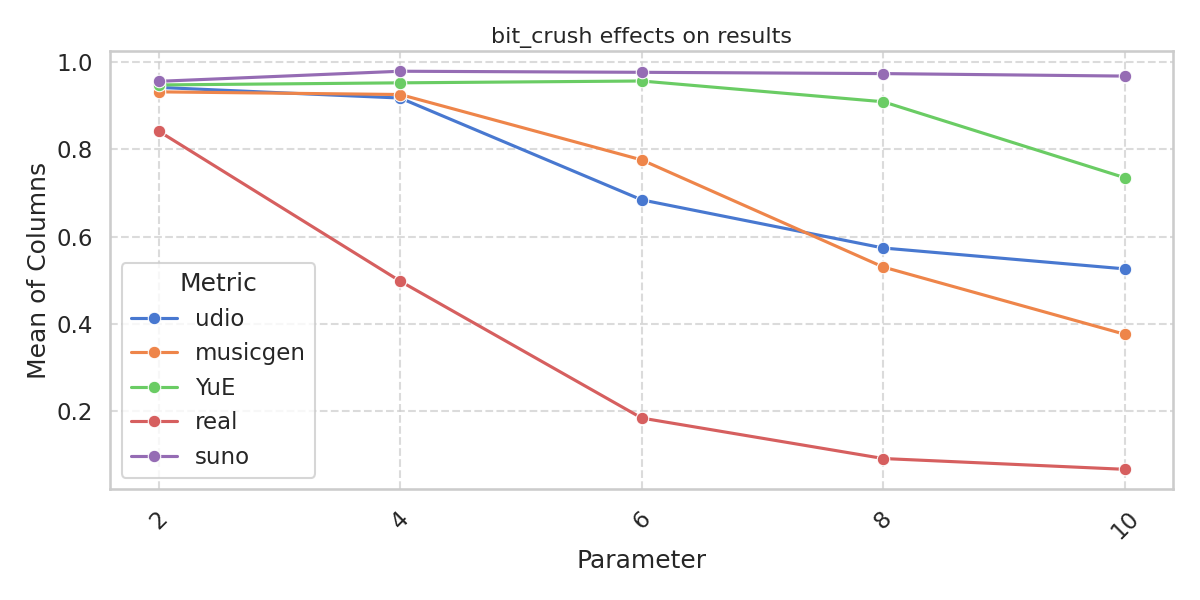
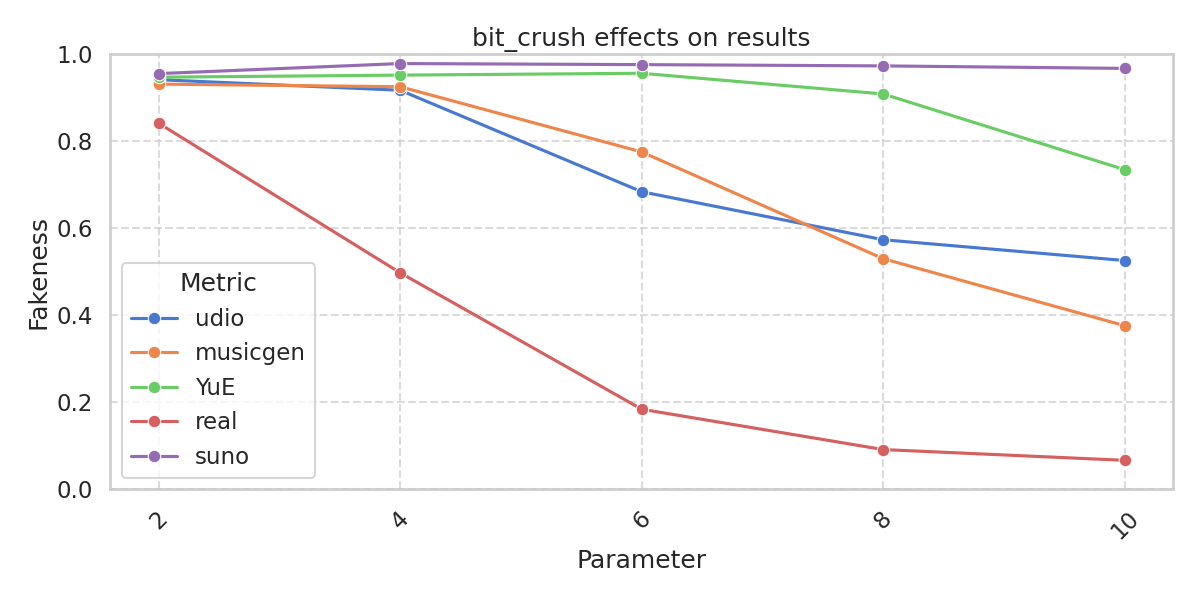
gfix: rename some files to be parsed by lineplot, and add the lineplot script for presentation

diff --git a/reports/make_lineplots.py b/reports/make_lineplots.py
@@ -1,0 +1,61 @@
+import os
+import re
+import pandas as pd
+import matplotlib.pyplot as plt
+import seaborn as sns
+
+a
+sns.set_theme(style='whitegrid', context='talk', palette='muted')
+csv_folder = 'results'
+
+all_files = [f for f in os.listdir(csv_folder) if f.endswith('.csv')]
+
+# remove not plottable
+ignore_keywords = ['EQ', 'no_augment', 'compress_ogg']
+files = [f for f in all_files if not any(kw in f for kw in ignore_keywords)]
+
+# Group files by prefix
+grouped_files = {}
+for f in files:
+    match = re.match(r'([a-z_\d]+?)(_[-\d\.a-z]+)?_results\.csv', f)
+    print(match)
+    if match:
+        group = match.group(1)
+        param = match.group(2) if match.group(2) else ''
+        grouped_files.setdefault(group, []).append((param, f))
+
+for group, param_files in grouped_files.items():
+    data = []
+    labels = []
+    params = []
+
+    # Sort by numeric parameter
+    def extract_number(param_str):
+        nums = re.findall(r'[-+]?\d*\.?\d+', param_str)
+        return float(nums[0]) if nums else 0
+
+    param_files.sort(key=lambda x: extract_number(x[0]))
+
+    for param, filename in param_files:
+        df = pd.read_csv(os.path.join(csv_folder, filename))
+        mean_vals = df.mean()
+        data.append(mean_vals.values)
+        labels = df.columns.tolist()
+        params.append(param.strip('_'))
+
+    plot_data = pd.DataFrame(data, columns=labels)
+    plot_data['param'] = params
+    plot_data = plot_data.melt(id_vars='param', var_name='Metric', value_name='Mean Value')
+
+    plt.figure(figsize=(12, 6))
+    sns.lineplot(data=plot_data, x='param', y='Mean Value', hue='Metric', marker='o')
+    plt.title(f'{group} effects on results')
+    plt.xlabel('Parameter')
+    plt.ylabel('Fakeness')
+    plt.xticks(rotation=45)
+    plt.tight_layout()
+    plt.legend(title='Metric')
+    plt.grid(True, linestyle='--', alpha=0.7)
+    plt.ylim(0, 1)
+    plt.savefig(f'reports/figures/{group}_lineplot.png')
+    plt.show()
